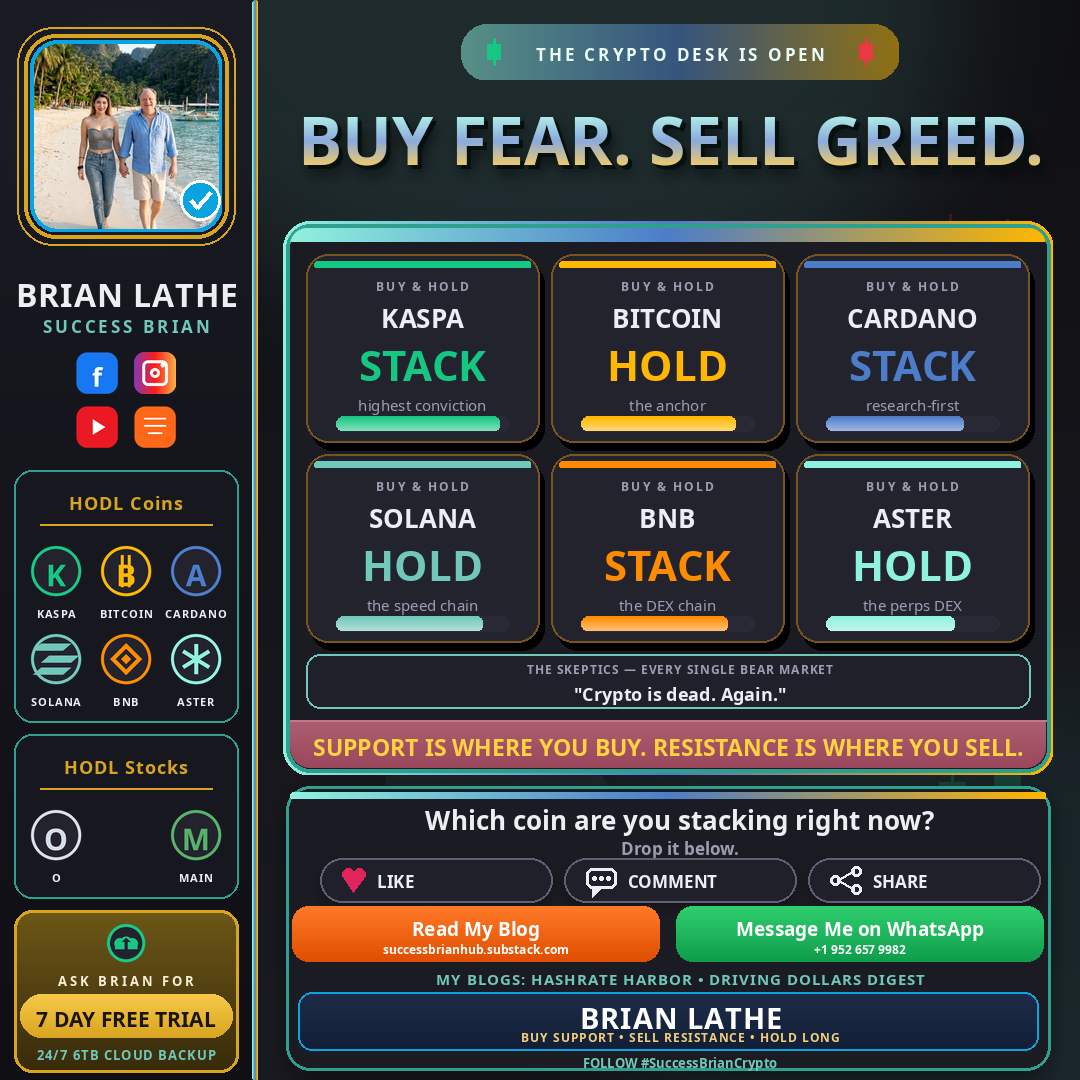
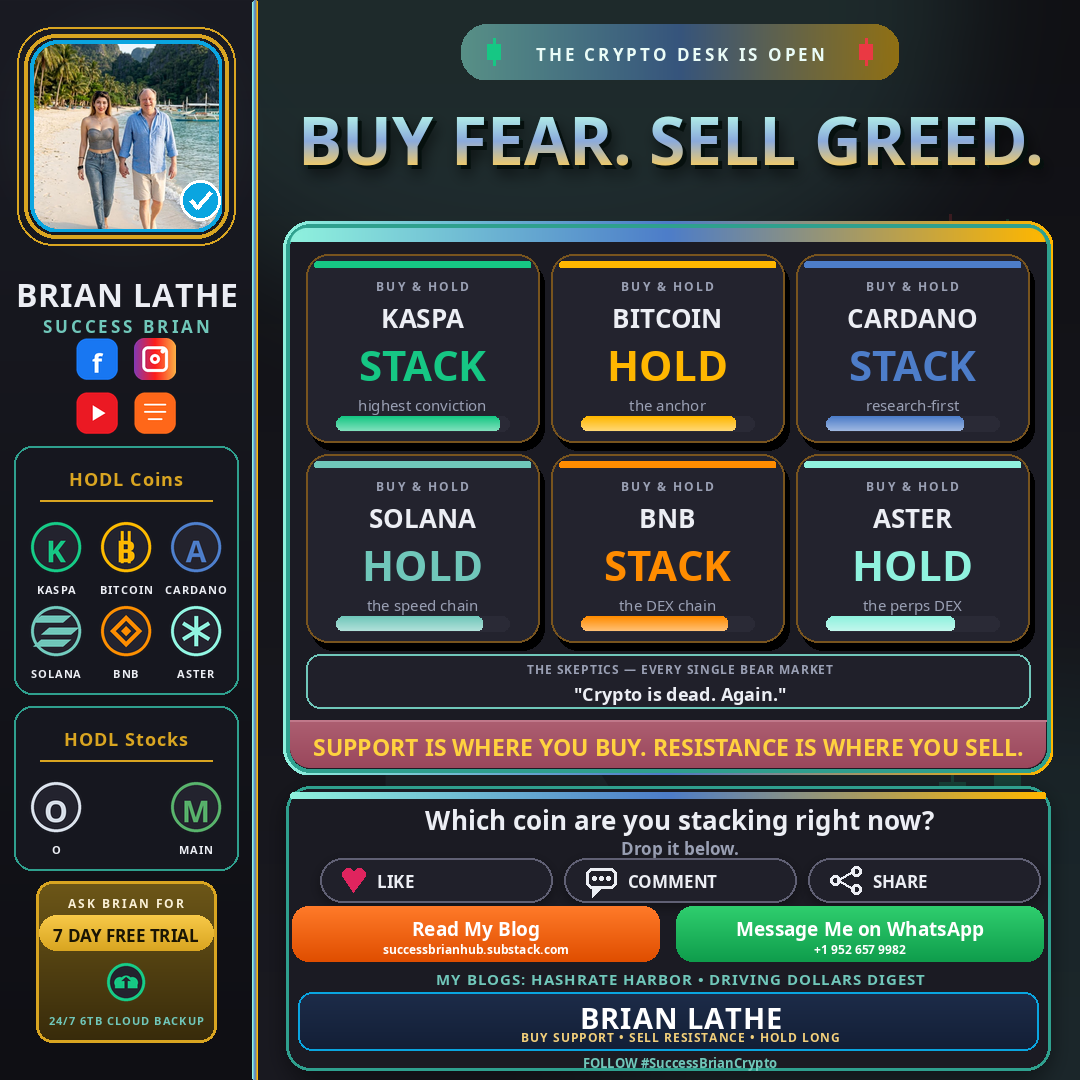
crypto crossover: CTA slot = ONE standard size (Brian 2026-11-18 22:23 CST: "it needs to be the same SIZE as the spencer call to action -- i'm going to now multiple call to actions all the same size and we can swap them out per post") — offer card rebuilt to the Spencer block footprint measured in r

Changed region(s): [[0.0, 0.3056, 0.2444, 1.0]]

diff --git a/tools/audience/render_crypto_crossover.py b/tools/audience/render_crypto_crossover.py
@@ -113,6 +113,21 @@ lines. Hierarchy stands: ASK BRIAN FOR -> 7 DAY FREE TRIAL ->
 24/7 6TB CLOUD BACKUP. The room comes from the rail crunch —
 the HODL panels ride higher; their substance is unchanged.
 
+CTA-slot ruling (Brian, 2026-11-18 22:23 CST): "it needs to be
+the same SIZE as the spencer call to action -- i'm going to now
+multiple call to actions all the same size and we can swap them
+out per post." The CTA slot is ONE standard size across the
+format — CTAs are interchangeable modules swapped per post
+(Spencer / the Muse AI agent on the AI piece, this unnamed
+trial offer on the crypto piece, more to come). The standard
+footprint is the Spencer block's, measured in
+render_crossover_graph.py: the gold rule at y881, CTA lines
+895/914, badge 935-1019, name 1027 — a slot 180 wide (x36-216,
+the rule's extent) x 161 tall (y881-1042) at the rail foot.
+This offer card is built to exactly that footprint; the
+stand-out treatment (gold card, gold pill, medallion) lives
+INSIDE the slot and takes no extra rail room.
+
 Content (the crypto desk as rebranded, commit 25e4179): headline
 "BUY FEAR. SELL GREED.", the six coins as comparative cards, the
 skeptics strip, punchline "SUPPORT IS WHERE YOU BUY. RESISTANCE IS
@@ -254,7 +269,7 @@ def main():
         big = size * 4
         _b = _yt_icon(big) if kind == "youtube" else mt.icon(kind, big)
         return _b.resize((size, size), Image.LANCZOS)
-    _isz, _hgap, _vgap, _iy0 = 42, 16, 12, 352
+    _isz, _hgap, _vgap, _iy0 = 42, 16, 12, 338
     for _i, _kind in enumerate(("facebook", "instagram", "youtube", "blog")):
         _ix = RAIL_W // 2 - _isz - _hgap // 2 if _i % 2 == 0 else RAIL_W // 2 + _hgap // 2
         _iy = _iy0 if _i < 2 else _iy0 + _isz + _vgap
@@ -372,7 +387,7 @@ def main():
         panel's bottom y."""
         _pd = ImageDraw.Draw(img)
         _rows = (len(items) + len(col_cxs) - 1) // len(col_cxs)
-        _y1 = y0 + 72 + (_rows - 1) * 88 + 92
+        _y1 = y0 + 72 + (_rows - 1) * 84 + 92
         _pd.rounded_rectangle([14, y0, RAIL_W - 14, _y1], 18,
                               fill=(22, 23, 31, 255),
                               outline=mt._hex(ct.KASPA_DK) + (255,),
@@ -383,7 +398,7 @@ def main():
                  fill=(217, 165, 33, 255), width=2)
         for _i, (_kind, _label, _color) in enumerate(items):
             _mcx = col_cxs[_i % len(col_cxs)]
-            _mtop = y0 + 72 + (_i // len(col_cxs)) * 88
+            _mtop = y0 + 72 + (_i // len(col_cxs)) * 84
             _med = _medallion(_kind, _color)
             img.paste(_med, (_mcx - 29, _mtop), _med)
             cx_text(_pd, _mcx, _mtop + 64, _label, font(FB, 11), INK_D,
@@ -392,7 +407,7 @@ def main():
 
     _coins = [(_c["title"], _c["title"], _c["bar_color"])
               for _c in content["cards"]]
-    _ybot = _hodl_panel(470, "HODL Coins", _coins, (56, 126, 196))
+    _ybot = _hodl_panel(446, "HODL Coins", _coins, (56, 126, 196))
     # Brian's two HODL stocks (ruled 2026-11-18 22:01 CST): O =
     # Realty Income (realty) in silver-blue, MAIN = Main Street
     # Capital (BDC lender, not realty) in money green — colors
@@ -417,38 +432,47 @@ def main():
     # the desk's idiom — no scraped art, no brand marks. ----
     # Offer treatment (Brian, 2026-11-18 22:20 CST: "my 7 day offer
     # needs to stand out more -- i want people buy it, ask about
-    # it, etc."): the block is now a filled AD CARD in the format's
-    # panel grammar — a warm gold-gradient fill with a gold border
-    # lifts it off the rail's dark ground, the cloud medallion sits
-    # INSIDE the card with the offer, and "7 DAY FREE TRIAL" rides
-    # a filled gold pill (dark text, the holo_pill idiom) as the
-    # strongest element on the rail, readable at thumbnail scale.
-    # Words unchanged (22:16 ruling); hierarchy: ASK BRIAN FOR ->
-    # 7 DAY FREE TRIAL -> 24/7 6TB CLOUD BACKUP. Room comes from
-    # the rail crunch above (coins panel at 470, stocks gap 12).
-    _cy0, _cy1 = _sbot + 12, 1072
-    _card = _vgrad(RAIL_W - 28, _cy1 - _cy0, "#6d5718", "#382b0b", 18)
-    img.paste(_card, (14, _cy0), _card)
+    # it, etc."), sized by the CTA-slot ruling (22:23 CST: "it
+    # needs to be the same SIZE as the spencer call to action --
+    # i'm going to now multiple call to actions all the same size
+    # and we can swap them out per post"). The block is a filled
+    # AD CARD — warm gold gradient, gold border — built to the
+    # STANDARD CTA SLOT, the Spencer block's exact footprint
+    # measured in render_crossover_graph.py: x36-216 (180 wide,
+    # the rule's extent) x y881-1042 (161 tall: rule 881, lines
+    # 895/914, badge 935-1019, name 1027), same rail-foot position.
+    # CTAs are interchangeable modules at this size, swapped per
+    # post; the stand-out treatment lives INSIDE the footprint —
+    # the card's gold outline takes the rule's place at the slot's
+    # top edge, "7 DAY FREE TRIAL" rides a filled gold pill (dark
+    # text, the holo_pill idiom), and the cloud medallion sits at
+    # the badge position. Internal order mirrors Spencer's:
+    # invitation line -> hook -> badge -> closing line. Words
+    # unchanged (22:16 ruling). The HODL panels crunch up to clear
+    # the slot (stocks bottom 870, slot top 881); their substance
+    # is unchanged.
+    _sx0, _sx1, _sy0, _sy1 = 36, RAIL_W - 36, 881, 1042
+    _card = _vgrad(_sx1 - _sx0, _sy1 - _sy0, "#6d5718", "#382b0b", 16)
+    img.paste(_card, (_sx0, _sy0), _card)
     d = ImageDraw.Draw(img)
-    d.rounded_rectangle([14, _cy0, RAIL_W - 14, _cy1], 18,
+    d.rounded_rectangle([_sx0, _sy0, _sx1, _sy1], 16,
                         outline=(217, 165, 33, 255), width=3)
-    _cmed = _medallion("CLOUD", _coins[0][2], 46)
-    img.paste(_cmed, (RAIL_W // 2 - 23, _cy0 + 10), _cmed)
-    d = ImageDraw.Draw(img)
-    cx_text(d, RAIL_W // 2, _cy0 + 62, "ASK BRIAN FOR",
-            font(FB, 13), (250, 240, 214), tracking=3)
-    _pf, _ = _fit("7 DAY FREE TRIAL", 21, 184)
+    cx_text(d, RAIL_W // 2, 895, "ASK BRIAN FOR",
+            font(FB, 12), (250, 240, 214), tracking=2)
+    _pf, _ = _fit("7 DAY FREE TRIAL", 17, 146)
     _ptw = d.textlength("7 DAY FREE TRIAL", font=_pf)
-    _pw2 = int(_ptw) + 34
+    _pw2 = int(_ptw) + 30
     _px0 = RAIL_W // 2 - _pw2 // 2
-    _py0 = _cy0 + 84
-    _pill = _vgrad(_pw2, 44, "#f7c948", "#d9a521", 22)
-    img.paste(_pill, (_px0, _py0), _pill)
+    _pill = _vgrad(_pw2, 36, "#f7c948", "#d9a521", 18)
+    img.paste(_pill, (_px0, 915), _pill)
     d = ImageDraw.Draw(img)
-    cx_text(d, RAIL_W // 2, _py0 + (44 - _pf.size) // 2 - 1,
+    cx_text(d, RAIL_W // 2, 915 + (36 - _pf.size) // 2 - 1,
             "7 DAY FREE TRIAL", _pf, (26, 21, 4))
-    _sf, _ = _fit("24/7 6TB CLOUD BACKUP", 13, 200, floor=9)
-    cx_text(d, RAIL_W // 2, _py0 + 52, "24/7 6TB CLOUD BACKUP",
+    _cmed = _medallion("CLOUD", _coins[0][2], 46)
+    img.paste(_cmed, (RAIL_W // 2 - 23, 959), _cmed)
+    d = ImageDraw.Draw(img)
+    _sf, _ = _fit("24/7 6TB CLOUD BACKUP", 11, 168, floor=9)
+    cx_text(d, RAIL_W // 2, 1013, "24/7 6TB CLOUD BACKUP",
             _sf, ct.KASPA, tracking=1)
     d = ImageDraw.Draw(img)
 
